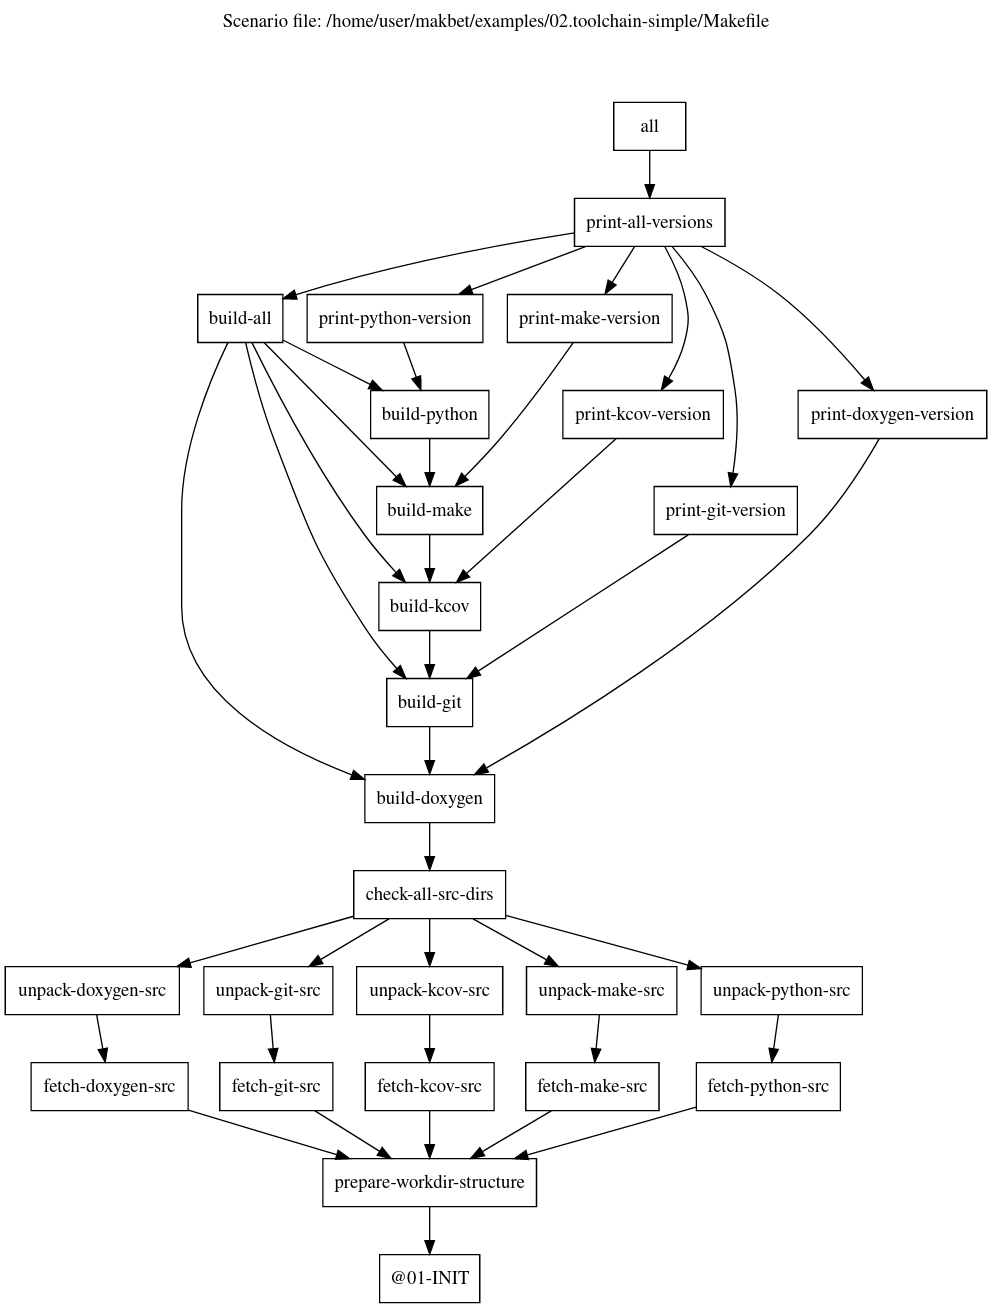
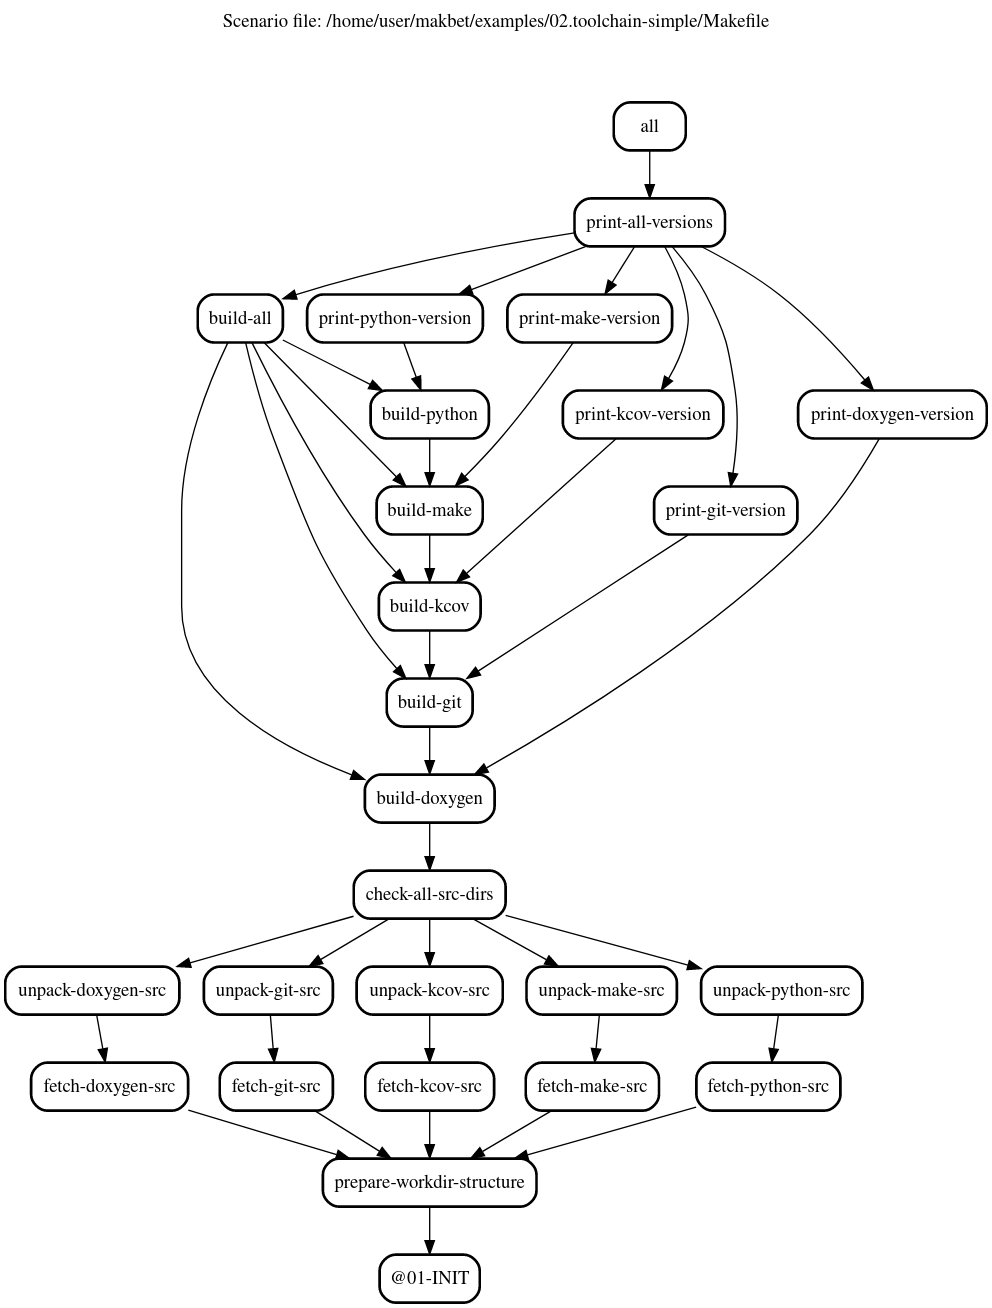
[#116] Use rounded box in DOT output
Change the DOT output from regular boxes to rounded boxes.
Additionally make all boxed bold now.

diff --git a/README.rst b/README.rst
@@ -184,8 +184,8 @@ results which can be used for further processing:
   labelloc="t";
   label="Scenario file: /home/user/makbet/examples/01.dummy/Makefile\n\n\n\n";
 
-  // Node options.
-  node [shape=box];
+  // Global options for all nodes.
+  node [shape="box" style="rounded, bold"];
 
 
   "@01-INIT";
